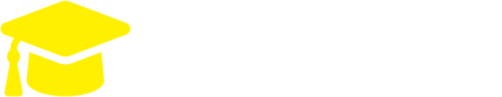
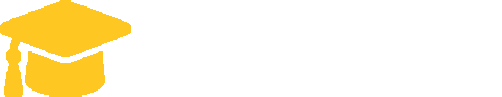
change in color

Changed region(s): [[0.0, 0.0, 0.2689, 1.0]]

diff --git a/css/style.css b/css/style.css
@@ -92,7 +92,7 @@ header .sub-header  a:last-child {
   margin-right: 0;
 }
 header .sub-header a:hover {
-  color: yellow;
+  color: #fec722;
 }
 header .sub-header {
   background-color: #292929;
@@ -133,14 +133,14 @@ header .main-header .main-nav ul li:last-child {
   margin-right: 0;
 }
 header .main-header .main-nav ul li.active a {
-  color: yellow;
+  color: #fec722;
 }
 header .main-header .main-nav ul li a {
   color: white;
   padding-bottom: 4px;
 }
 header .main-header .main-nav ul li a:hover {
-  color: yellow;
+  color: #fec722;
 }
 
 /*********************** banner **********************/
@@ -267,7 +267,7 @@ header .main-header .main-nav ul li a:hover {
   background-position: right bottom;
 }
 .feature .r-arrow {
-  color: yellow;
+  color: #fec722;
   /* margin-left : 4px; */
   font-size: 11px;
 }
@@ -473,7 +473,7 @@ header .main-header .main-nav ul li a:hover {
   padding: 0px 50px;
 }
 .purchase .purchase-theme a {
-  background-color: yellow;
+  background-color: #fec722;
   font-size: 22px;
   font-weight: bold;
   color: #3e3e3e;
@@ -687,7 +687,7 @@ footer h3 {
   /* padding-bottom: 10px; */
 }
 footer a:hover {
-  color: yellow;
+  color: #fec722;
 }
 footer ol {
   padding: 0;
@@ -717,7 +717,7 @@ footer .top-footer li i {
   margin-right: 5px;
 }
 footer .top-footer a:hover {
-  color: yellow;
+  color: #fec722;
 }
 footer .top-footer .logo img {
   width: 100px;
@@ -743,7 +743,7 @@ footer .top-footer .topic input {
 footer .top-footer .topic:last-child a {
   padding: 10px;
   margin: 0;
-  background-color: yellow;
+  background-color: #fec722;
   display: inline-block;
   color: #3e3e3e;
   font-weight: bold;
